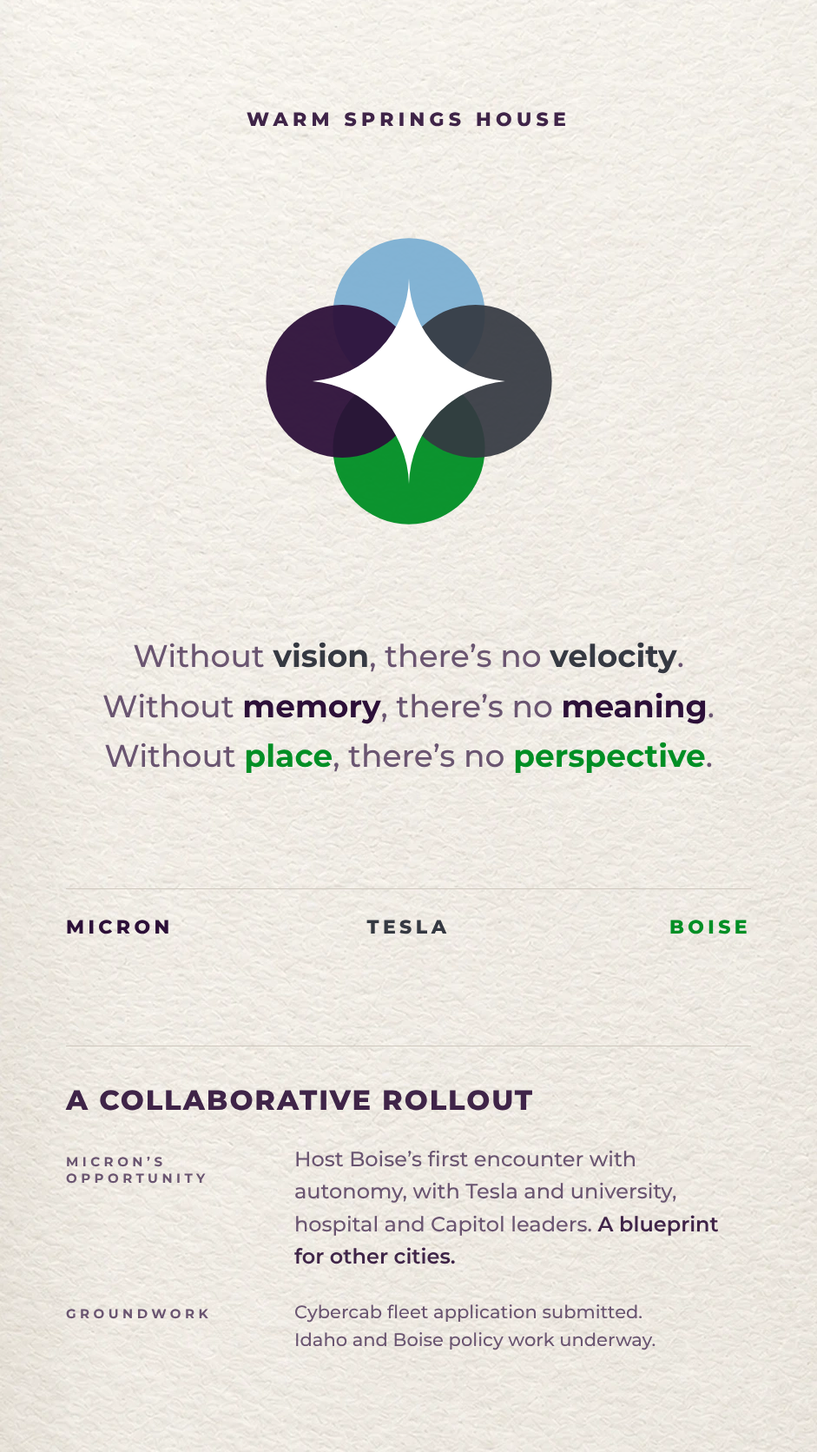
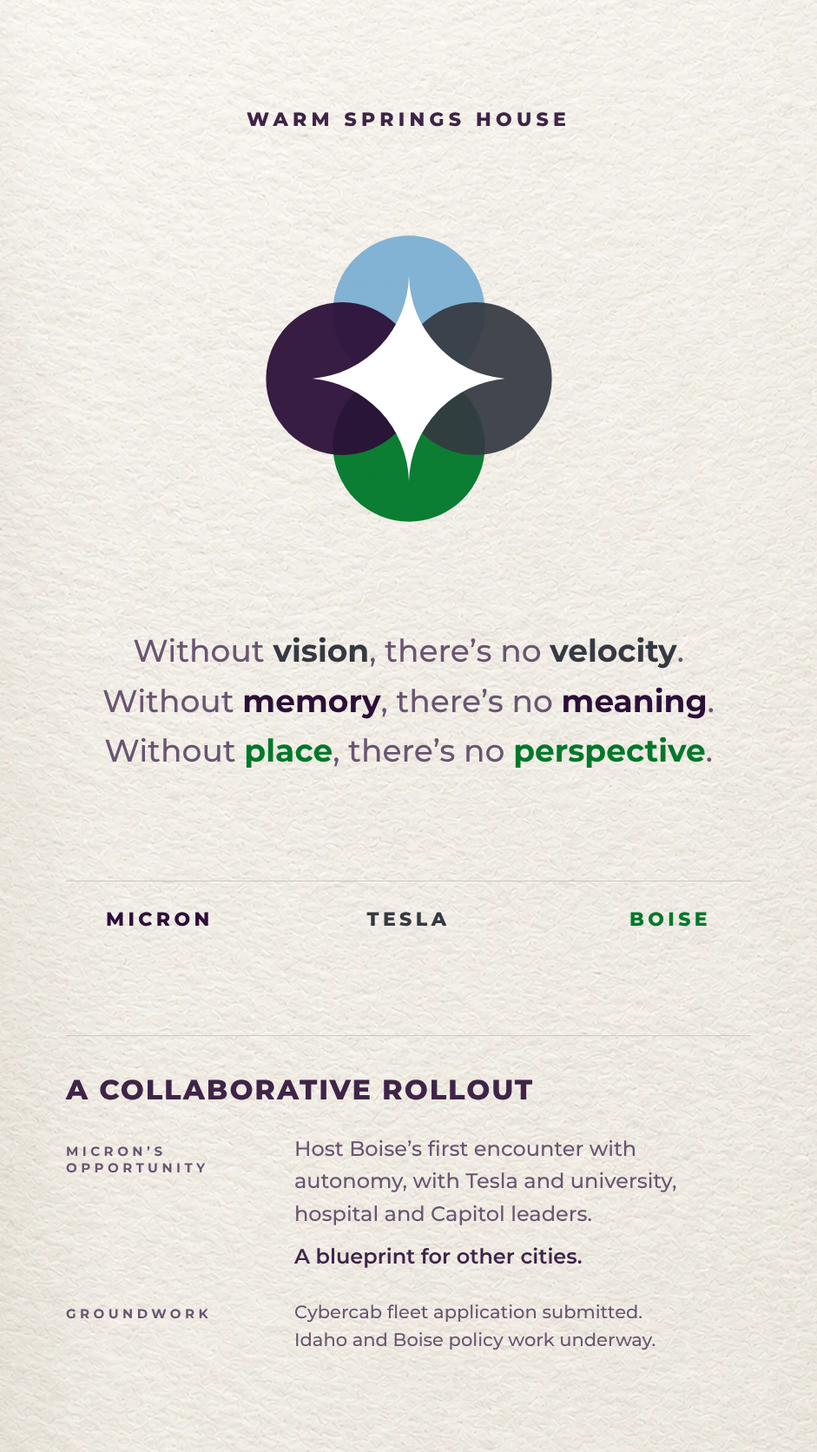
Card 5 final: serif hero lines, centred close, partner row inset
Claude-Session: https://claude.ai/code/session_018mjyHLtRipED1pdLKidqkG

diff --git a/mockups/card5/clean/card5-FINAL.html b/mockups/card5/clean/card5-FINAL.html
@@ -1,12 +1,12 @@
 <!doctype html><html><head><meta charset="utf-8">
-<link href="https://fonts.googleapis.com/css2?family=Montserrat:wght@400;500;600;700;800&display=swap" rel="stylesheet">
+<link href="https://fonts.googleapis.com/css2?family=Montserrat:wght@300;400;500;600;700;800&family=Newsreader:ital,opsz,wght@0,6..72,300;0,6..72,400;0,6..72,500;1,6..72,400;1,6..72,500&display=swap" rel="stylesheet">
 <style>html,body{margin:0;background:#fff}
 .card{position:relative;width:941px;height:1672px;overflow:hidden;background:#f4f3ef url(paper.webp) center/cover no-repeat;font-family:Montserrat,Arial,sans-serif;color:#3f2448}
 .col{position:absolute;left:76px;right:76px;top:124px;bottom:112px;display:flex;flex-direction:column;justify-content:space-between}
 .c{text-align:center}
 .brand{font-size:22px;letter-spacing:.24em;font-weight:800;text-transform:uppercase}
-.st{font-size:36px;line-height:1.6;font-weight:500;color:#6a5571}
-.st b{font-weight:700}
+.st{font-family:Newsreader,Georgia,serif;font-size:46px;line-height:1.42;font-weight:400;color:#6a5571}
+.st b{font-style:italic;font-weight:500}
 .pt{font-size:22px;letter-spacing:.2em;font-weight:800;text-transform:uppercase}
 .lab{font-size:15px;letter-spacing:.3em;font-weight:700;text-transform:uppercase;color:#6a5571}
 .h{font-size:32px;line-height:1.15;letter-spacing:.06em;font-weight:800;text-transform:uppercase}
@@ -16,9 +16,9 @@
 .rule{border-top:1px solid #cfc8be}
 </style></head><body><div class="card"><div class="col"><div class="c brand">Warm Springs House</div>
 <div style="display:flex;justify-content:center"><img src="mark.svg" style="width:330px;height:330px;display:block"></div>
-<div class="c st">Without <b style="color:#353942">vision</b>, there&#8217;s no <b style="color:#353942">velocity</b>.<br>Without <b style="color:#2c0f38">memory</b>, there&#8217;s no <b style="color:#2c0f38">meaning</b>.<br>Without <b style="color:#008f25">place</b>, there&#8217;s no <b style="color:#008f25">perspective</b>.</div>
-<div class="rule" style="padding-top:30px;display:grid;grid-template-columns:1fr 1fr 1fr">
-<div class="pt" style="color:#2c0f38">Micron</div><div class="pt c" style="color:#353942">Tesla</div><div class="pt" style="color:#008f25;text-align:right">Boise</div></div><div class="rule c" style="padding-top:44px">
+<div class="c st">Without <b style="color:#353942">vision</b>, there&#8217;s no <b style="color:#353942">velocity</b>.<br>Without <b style="color:#2c0f38">memory</b>, there&#8217;s no <b style="color:#2c0f38">meaning</b>.<br>Without <b style="color:#00782a">place</b>, there&#8217;s no <b style="color:#00782a">perspective</b>.</div>
+<div class="rule" style="padding:30px 46px 0;display:grid;grid-template-columns:1fr 1fr 1fr">
+<div class="pt" style="color:#2c0f38">Micron</div><div class="pt c" style="color:#353942">Tesla</div><div class="pt" style="color:#00782a;text-align:right">Boise</div></div><div class="rule c" style="padding-top:44px">
 <div class="h">A collaborative rollout</div>
 <div class="p" style="margin-top:18px"><b>Micron&#8217;s opportunity:</b> host Boise&#8217;s first encounter<br>with autonomy, with Tesla and university,<br>hospital and Capitol leaders.</div>
 <div class="p" style="margin-top:10px;color:#3f2448;font-weight:600">A blueprint for other cities.</div>

diff --git a/mockups/card5/clean/card5-C-H2.html b/mockups/card5/clean/card5-C-H2.html
@@ -1,0 +1,25 @@
+<!doctype html><html><head><meta charset="utf-8">
+<link href="https://fonts.googleapis.com/css2?family=Montserrat:wght@300;400;500;600;700;800&family=Newsreader:ital,opsz,wght@0,6..72,300;0,6..72,400;0,6..72,500;1,6..72,400;1,6..72,500&display=swap" rel="stylesheet">
+<style>html,body{margin:0;background:#fff}
+.card{position:relative;width:941px;height:1672px;overflow:hidden;background:#f4f3ef url(paper.webp) center/cover no-repeat;font-family:Montserrat,Arial,sans-serif;color:#3f2448}
+.col{position:absolute;left:76px;right:76px;top:124px;bottom:112px;display:flex;flex-direction:column;justify-content:space-between}
+.c{text-align:center}
+.brand{font-size:22px;letter-spacing:.24em;font-weight:800;text-transform:uppercase}
+.st{font-family:Newsreader,Georgia,serif;font-size:46px;line-height:1.42;font-weight:400;color:#6a5571}
+.st b{font-style:italic;font-weight:500}
+.pt{font-size:22px;letter-spacing:.2em;font-weight:800;text-transform:uppercase}
+.lab{font-size:15px;letter-spacing:.3em;font-weight:700;text-transform:uppercase;color:#6a5571}
+.h{font-size:32px;line-height:1.15;letter-spacing:.06em;font-weight:800;text-transform:uppercase}
+.p{font-size:25px;line-height:1.55;font-weight:500;color:#6a5571}
+.p b{font-weight:700;color:#3f2448}
+.sm{font-size:21px;line-height:1.55;font-weight:500;color:#6a5571}
+.rule{border-top:1px solid #cfc8be}
+</style></head><body><div class="card"><div class="col"><div class="c brand">Warm Springs House</div>
+<div style="display:flex;justify-content:center"><img src="mark.svg" style="width:330px;height:330px;display:block"></div>
+<div class="c st">Without <b style="color:#353942">vision</b>, there&#8217;s no <b style="color:#353942">velocity</b>.<br>Without <b style="color:#2c0f38">memory</b>, there&#8217;s no <b style="color:#2c0f38">meaning</b>.<br>Without <b style="color:#00782a">place</b>, there&#8217;s no <b style="color:#00782a">perspective</b>.</div>
+<div class="rule" style="padding:30px 46px 0;display:grid;grid-template-columns:1fr 1fr 1fr">
+<div class="pt" style="color:#2c0f38">Micron</div><div class="pt c" style="color:#353942">Tesla</div><div class="pt" style="color:#00782a;text-align:right">Boise</div></div><div class="rule" style="padding-top:44px">
+<div class="h">A collaborative rollout</div>
+<div style="margin-top:30px;display:grid;grid-template-columns:1fr 2fr;row-gap:30px;align-items:baseline">
+<div class="lab">Micron&#8217;s<br>opportunity</div><div class="p" style="font-size:24px">Host Boise&#8217;s first encounter with autonomy, with Tesla and university, hospital and Capitol leaders.<div style="margin-top:12px;color:#3f2448;font-weight:600">A blueprint for other cities.</div></div>
+<div class="lab">Groundwork</div><div class="sm">Cybercab fleet application submitted.<br>Idaho and Boise policy work underway.</div></div></div></div></div></body></html>

diff --git a/mockups/card5/clean/card5-FINAL-alt-C.html b/mockups/card5/clean/card5-FINAL-alt-C.html
@@ -1,0 +1,25 @@
+<!doctype html><html><head><meta charset="utf-8">
+<link href="https://fonts.googleapis.com/css2?family=Montserrat:wght@300;400;500;600;700;800&family=Newsreader:ital,opsz,wght@0,6..72,300;0,6..72,400;0,6..72,500;1,6..72,400;1,6..72,500&display=swap" rel="stylesheet">
+<style>html,body{margin:0;background:#fff}
+.card{position:relative;width:941px;height:1672px;overflow:hidden;background:#f4f3ef url(paper.webp) center/cover no-repeat;font-family:Montserrat,Arial,sans-serif;color:#3f2448}
+.col{position:absolute;left:76px;right:76px;top:124px;bottom:112px;display:flex;flex-direction:column;justify-content:space-between}
+.c{text-align:center}
+.brand{font-size:22px;letter-spacing:.24em;font-weight:800;text-transform:uppercase}
+.st{font-family:Newsreader,Georgia,serif;font-size:46px;line-height:1.42;font-weight:400;color:#6a5571}
+.st b{font-style:italic;font-weight:500}
+.pt{font-size:22px;letter-spacing:.2em;font-weight:800;text-transform:uppercase}
+.lab{font-size:15px;letter-spacing:.3em;font-weight:700;text-transform:uppercase;color:#6a5571}
+.h{font-size:32px;line-height:1.15;letter-spacing:.06em;font-weight:800;text-transform:uppercase}
+.p{font-size:25px;line-height:1.55;font-weight:500;color:#6a5571}
+.p b{font-weight:700;color:#3f2448}
+.sm{font-size:21px;line-height:1.55;font-weight:500;color:#6a5571}
+.rule{border-top:1px solid #cfc8be}
+</style></head><body><div class="card"><div class="col"><div class="c brand">Warm Springs House</div>
+<div style="display:flex;justify-content:center"><img src="mark.svg" style="width:330px;height:330px;display:block"></div>
+<div class="c st">Without <b style="color:#353942">vision</b>, there&#8217;s no <b style="color:#353942">velocity</b>.<br>Without <b style="color:#2c0f38">memory</b>, there&#8217;s no <b style="color:#2c0f38">meaning</b>.<br>Without <b style="color:#00782a">place</b>, there&#8217;s no <b style="color:#00782a">perspective</b>.</div>
+<div class="rule" style="padding:30px 46px 0;display:grid;grid-template-columns:1fr 1fr 1fr">
+<div class="pt" style="color:#2c0f38">Micron</div><div class="pt c" style="color:#353942">Tesla</div><div class="pt" style="color:#00782a;text-align:right">Boise</div></div><div class="rule" style="padding-top:44px">
+<div class="h">A collaborative rollout</div>
+<div style="margin-top:30px;display:grid;grid-template-columns:1fr 2fr;row-gap:30px;align-items:baseline">
+<div class="lab">Micron&#8217;s<br>opportunity</div><div class="p" style="font-size:24px">Host Boise&#8217;s first encounter with autonomy, with Tesla and university, hospital and Capitol leaders.<div style="margin-top:12px;color:#3f2448;font-weight:600">A blueprint for other cities.</div></div>
+<div class="lab">Groundwork</div><div class="sm">Cybercab fleet application submitted.<br>Idaho and Boise policy work underway.</div></div></div></div></div></body></html>

diff --git a/mockups/card5/clean/card5-C-H3.html b/mockups/card5/clean/card5-C-H3.html
@@ -1,0 +1,25 @@
+<!doctype html><html><head><meta charset="utf-8">
+<link href="https://fonts.googleapis.com/css2?family=Montserrat:wght@300;400;500;600;700;800&family=Newsreader:ital,opsz,wght@0,6..72,300;0,6..72,400;0,6..72,500;1,6..72,400;1,6..72,500&display=swap" rel="stylesheet">
+<style>html,body{margin:0;background:#fff}
+.card{position:relative;width:941px;height:1672px;overflow:hidden;background:#f4f3ef url(paper.webp) center/cover no-repeat;font-family:Montserrat,Arial,sans-serif;color:#3f2448}
+.col{position:absolute;left:76px;right:76px;top:124px;bottom:112px;display:flex;flex-direction:column;justify-content:space-between}
+.c{text-align:center}
+.brand{font-size:22px;letter-spacing:.24em;font-weight:800;text-transform:uppercase}
+.st{font-size:29px;line-height:1.85;font-weight:600;letter-spacing:.05em;text-transform:uppercase;color:#8c8391}
+.st b{font-weight:800}
+.pt{font-size:22px;letter-spacing:.2em;font-weight:800;text-transform:uppercase}
+.lab{font-size:15px;letter-spacing:.3em;font-weight:700;text-transform:uppercase;color:#6a5571}
+.h{font-size:32px;line-height:1.15;letter-spacing:.06em;font-weight:800;text-transform:uppercase}
+.p{font-size:25px;line-height:1.55;font-weight:500;color:#6a5571}
+.p b{font-weight:700;color:#3f2448}
+.sm{font-size:21px;line-height:1.55;font-weight:500;color:#6a5571}
+.rule{border-top:1px solid #cfc8be}
+</style></head><body><div class="card"><div class="col"><div class="c brand">Warm Springs House</div>
+<div style="display:flex;justify-content:center"><img src="mark.svg" style="width:330px;height:330px;display:block"></div>
+<div class="c st">Without <b style="color:#353942">vision</b>, there&#8217;s no <b style="color:#353942">velocity</b>.<br>Without <b style="color:#2c0f38">memory</b>, there&#8217;s no <b style="color:#2c0f38">meaning</b>.<br>Without <b style="color:#00782a">place</b>, there&#8217;s no <b style="color:#00782a">perspective</b>.</div>
+<div class="rule" style="padding:30px 46px 0;display:grid;grid-template-columns:1fr 1fr 1fr">
+<div class="pt" style="color:#2c0f38">Micron</div><div class="pt c" style="color:#353942">Tesla</div><div class="pt" style="color:#00782a;text-align:right">Boise</div></div><div class="rule" style="padding-top:44px">
+<div class="h">A collaborative rollout</div>
+<div style="margin-top:30px;display:grid;grid-template-columns:1fr 2fr;row-gap:30px;align-items:baseline">
+<div class="lab">Micron&#8217;s<br>opportunity</div><div class="p" style="font-size:24px">Host Boise&#8217;s first encounter with autonomy, with Tesla and university, hospital and Capitol leaders.<div style="margin-top:12px;color:#3f2448;font-weight:600">A blueprint for other cities.</div></div>
+<div class="lab">Groundwork</div><div class="sm">Cybercab fleet application submitted.<br>Idaho and Boise policy work underway.</div></div></div></div></div></body></html>

diff --git a/mockups/card5/clean/card5-C-H4.html b/mockups/card5/clean/card5-C-H4.html
@@ -1,0 +1,25 @@
+<!doctype html><html><head><meta charset="utf-8">
+<link href="https://fonts.googleapis.com/css2?family=Montserrat:wght@300;400;500;600;700;800&family=Newsreader:ital,opsz,wght@0,6..72,300;0,6..72,400;0,6..72,500;1,6..72,400;1,6..72,500&display=swap" rel="stylesheet">
+<style>html,body{margin:0;background:#fff}
+.card{position:relative;width:941px;height:1672px;overflow:hidden;background:#f4f3ef url(paper.webp) center/cover no-repeat;font-family:Montserrat,Arial,sans-serif;color:#3f2448}
+.col{position:absolute;left:76px;right:76px;top:124px;bottom:112px;display:flex;flex-direction:column;justify-content:space-between}
+.c{text-align:center}
+.brand{font-size:22px;letter-spacing:.24em;font-weight:800;text-transform:uppercase}
+.st{font-family:Newsreader,Georgia,serif;font-size:44px;line-height:1.42;font-weight:300;color:#6f6475}
+.st b{font-weight:500}
+.pt{font-size:22px;letter-spacing:.2em;font-weight:800;text-transform:uppercase}
+.lab{font-size:15px;letter-spacing:.3em;font-weight:700;text-transform:uppercase;color:#6a5571}
+.h{font-size:32px;line-height:1.15;letter-spacing:.06em;font-weight:800;text-transform:uppercase}
+.p{font-size:25px;line-height:1.55;font-weight:500;color:#6a5571}
+.p b{font-weight:700;color:#3f2448}
+.sm{font-size:21px;line-height:1.55;font-weight:500;color:#6a5571}
+.rule{border-top:1px solid #cfc8be}
+</style></head><body><div class="card"><div class="col"><div class="c brand">Warm Springs House</div>
+<div style="display:flex;justify-content:center"><img src="mark.svg" style="width:330px;height:330px;display:block"></div>
+<div class="c st">Without <b style="color:#353942">vision</b>, there&#8217;s no <b style="color:#353942">velocity</b>.<br>Without <b style="color:#2c0f38">memory</b>, there&#8217;s no <b style="color:#2c0f38">meaning</b>.<br>Without <b style="color:#00782a">place</b>, there&#8217;s no <b style="color:#00782a">perspective</b>.</div>
+<div class="rule" style="padding:30px 46px 0;display:grid;grid-template-columns:1fr 1fr 1fr">
+<div class="pt" style="color:#2c0f38">Micron</div><div class="pt c" style="color:#353942">Tesla</div><div class="pt" style="color:#00782a;text-align:right">Boise</div></div><div class="rule" style="padding-top:44px">
+<div class="h">A collaborative rollout</div>
+<div style="margin-top:30px;display:grid;grid-template-columns:1fr 2fr;row-gap:30px;align-items:baseline">
+<div class="lab">Micron&#8217;s<br>opportunity</div><div class="p" style="font-size:24px">Host Boise&#8217;s first encounter with autonomy, with Tesla and university, hospital and Capitol leaders.<div style="margin-top:12px;color:#3f2448;font-weight:600">A blueprint for other cities.</div></div>
+<div class="lab">Groundwork</div><div class="sm">Cybercab fleet application submitted.<br>Idaho and Boise policy work underway.</div></div></div></div></div></body></html>

diff --git a/mockups/card5/clean/card5-C-H1.html b/mockups/card5/clean/card5-C-H1.html
@@ -1,0 +1,25 @@
+<!doctype html><html><head><meta charset="utf-8">
+<link href="https://fonts.googleapis.com/css2?family=Montserrat:wght@300;400;500;600;700;800&family=Newsreader:ital,opsz,wght@0,6..72,300;0,6..72,400;0,6..72,500;1,6..72,400;1,6..72,500&display=swap" rel="stylesheet">
+<style>html,body{margin:0;background:#fff}
+.card{position:relative;width:941px;height:1672px;overflow:hidden;background:#f4f3ef url(paper.webp) center/cover no-repeat;font-family:Montserrat,Arial,sans-serif;color:#3f2448}
+.col{position:absolute;left:76px;right:76px;top:124px;bottom:112px;display:flex;flex-direction:column;justify-content:space-between}
+.c{text-align:center}
+.brand{font-size:22px;letter-spacing:.24em;font-weight:800;text-transform:uppercase}
+.st{font-size:36px;line-height:1.62;font-weight:500;letter-spacing:-.005em;color:#8c8391}
+.st b{font-weight:500}
+.pt{font-size:22px;letter-spacing:.2em;font-weight:800;text-transform:uppercase}
+.lab{font-size:15px;letter-spacing:.3em;font-weight:700;text-transform:uppercase;color:#6a5571}
+.h{font-size:32px;line-height:1.15;letter-spacing:.06em;font-weight:800;text-transform:uppercase}
+.p{font-size:25px;line-height:1.55;font-weight:500;color:#6a5571}
+.p b{font-weight:700;color:#3f2448}
+.sm{font-size:21px;line-height:1.55;font-weight:500;color:#6a5571}
+.rule{border-top:1px solid #cfc8be}
+</style></head><body><div class="card"><div class="col"><div class="c brand">Warm Springs House</div>
+<div style="display:flex;justify-content:center"><img src="mark.svg" style="width:330px;height:330px;display:block"></div>
+<div class="c st">Without <b style="color:#353942">vision</b>, there&#8217;s no <b style="color:#353942">velocity</b>.<br>Without <b style="color:#2c0f38">memory</b>, there&#8217;s no <b style="color:#2c0f38">meaning</b>.<br>Without <b style="color:#00782a">place</b>, there&#8217;s no <b style="color:#00782a">perspective</b>.</div>
+<div class="rule" style="padding:30px 46px 0;display:grid;grid-template-columns:1fr 1fr 1fr">
+<div class="pt" style="color:#2c0f38">Micron</div><div class="pt c" style="color:#353942">Tesla</div><div class="pt" style="color:#00782a;text-align:right">Boise</div></div><div class="rule" style="padding-top:44px">
+<div class="h">A collaborative rollout</div>
+<div style="margin-top:30px;display:grid;grid-template-columns:1fr 2fr;row-gap:30px;align-items:baseline">
+<div class="lab">Micron&#8217;s<br>opportunity</div><div class="p" style="font-size:24px">Host Boise&#8217;s first encounter with autonomy, with Tesla and university, hospital and Capitol leaders.<div style="margin-top:12px;color:#3f2448;font-weight:600">A blueprint for other cities.</div></div>
+<div class="lab">Groundwork</div><div class="sm">Cybercab fleet application submitted.<br>Idaho and Boise policy work underway.</div></div></div></div></div></body></html>

diff --git a/mockups/card5/clean/card5-clean-C.html b/mockups/card5/clean/card5-clean-C.html
@@ -17,9 +17,9 @@
 </style></head><body><div class="card"><div class="col"><div class="c brand">Warm Springs House</div>
 <div style="display:flex;justify-content:center"><img src="mark.svg" style="width:330px;height:330px;display:block"></div>
 <div class="c st">Without <b style="color:#353942">vision</b>, there&#8217;s no <b style="color:#353942">velocity</b>.<br>Without <b style="color:#2c0f38">memory</b>, there&#8217;s no <b style="color:#2c0f38">meaning</b>.<br>Without <b style="color:#00782a">place</b>, there&#8217;s no <b style="color:#00782a">perspective</b>.</div>
-<div class="rule" style="padding-top:30px;display:grid;grid-template-columns:1fr 1fr 1fr">
+<div class="rule" style="padding:30px 46px 0;display:grid;grid-template-columns:1fr 1fr 1fr">
 <div class="pt" style="color:#2c0f38">Micron</div><div class="pt c" style="color:#353942">Tesla</div><div class="pt" style="color:#00782a;text-align:right">Boise</div></div><div class="rule" style="padding-top:44px">
 <div class="h">A collaborative rollout</div>
 <div style="margin-top:30px;display:grid;grid-template-columns:1fr 2fr;row-gap:30px;align-items:baseline">
-<div class="lab">Micron&#8217;s<br>opportunity</div><div class="p" style="font-size:24px">Host Boise&#8217;s first encounter with autonomy, with Tesla and university, hospital and Capitol leaders. <span style="color:#3f2448;font-weight:600">A blueprint for other cities.</span></div>
+<div class="lab">Micron&#8217;s<br>opportunity</div><div class="p" style="font-size:24px">Host Boise&#8217;s first encounter with autonomy, with Tesla and university, hospital and Capitol leaders.<div style="margin-top:12px;color:#3f2448;font-weight:600">A blueprint for other cities.</div></div>
 <div class="lab">Groundwork</div><div class="sm">Cybercab fleet application submitted.<br>Idaho and Boise policy work underway.</div></div></div></div></div></body></html>

diff --git a/mockups/card5/clean/card5-H1.html b/mockups/card5/clean/card5-H1.html
@@ -17,7 +17,7 @@
 </style></head><body><div class="card"><div class="col"><div class="c brand">Warm Springs House</div>
 <div style="display:flex;justify-content:center"><img src="mark.svg" style="width:330px;height:330px;display:block"></div>
 <div class="c st">Without <b style="color:#353942">vision</b>, there&#8217;s no <b style="color:#353942">velocity</b>.<br>Without <b style="color:#2c0f38">memory</b>, there&#8217;s no <b style="color:#2c0f38">meaning</b>.<br>Without <b style="color:#00782a">place</b>, there&#8217;s no <b style="color:#00782a">perspective</b>.</div>
-<div class="rule" style="padding-top:30px;display:grid;grid-template-columns:1fr 1fr 1fr">
+<div class="rule" style="padding:30px 46px 0;display:grid;grid-template-columns:1fr 1fr 1fr">
 <div class="pt" style="color:#2c0f38">Micron</div><div class="pt c" style="color:#353942">Tesla</div><div class="pt" style="color:#00782a;text-align:right">Boise</div></div><div class="rule c" style="padding-top:44px">
 <div class="h">A collaborative rollout</div>
 <div class="p" style="margin-top:18px"><b>Micron&#8217;s opportunity:</b> host Boise&#8217;s first encounter<br>with autonomy, with Tesla and university,<br>hospital and Capitol leaders.</div>

diff --git a/mockups/card5/clean/card5-H2.html b/mockups/card5/clean/card5-H2.html
@@ -17,7 +17,7 @@
 </style></head><body><div class="card"><div class="col"><div class="c brand">Warm Springs House</div>
 <div style="display:flex;justify-content:center"><img src="mark.svg" style="width:330px;height:330px;display:block"></div>
 <div class="c st">Without <b style="color:#353942">vision</b>, there&#8217;s no <b style="color:#353942">velocity</b>.<br>Without <b style="color:#2c0f38">memory</b>, there&#8217;s no <b style="color:#2c0f38">meaning</b>.<br>Without <b style="color:#00782a">place</b>, there&#8217;s no <b style="color:#00782a">perspective</b>.</div>
-<div class="rule" style="padding-top:30px;display:grid;grid-template-columns:1fr 1fr 1fr">
+<div class="rule" style="padding:30px 46px 0;display:grid;grid-template-columns:1fr 1fr 1fr">
 <div class="pt" style="color:#2c0f38">Micron</div><div class="pt c" style="color:#353942">Tesla</div><div class="pt" style="color:#00782a;text-align:right">Boise</div></div><div class="rule c" style="padding-top:44px">
 <div class="h">A collaborative rollout</div>
 <div class="p" style="margin-top:18px"><b>Micron&#8217;s opportunity:</b> host Boise&#8217;s first encounter<br>with autonomy, with Tesla and university,<br>hospital and Capitol leaders.</div>

diff --git a/mockups/card5/clean/card5-H3.html b/mockups/card5/clean/card5-H3.html
@@ -17,7 +17,7 @@
 </style></head><body><div class="card"><div class="col"><div class="c brand">Warm Springs House</div>
 <div style="display:flex;justify-content:center"><img src="mark.svg" style="width:330px;height:330px;display:block"></div>
 <div class="c st">Without <b style="color:#353942">vision</b>, there&#8217;s no <b style="color:#353942">velocity</b>.<br>Without <b style="color:#2c0f38">memory</b>, there&#8217;s no <b style="color:#2c0f38">meaning</b>.<br>Without <b style="color:#00782a">place</b>, there&#8217;s no <b style="color:#00782a">perspective</b>.</div>
-<div class="rule" style="padding-top:30px;display:grid;grid-template-columns:1fr 1fr 1fr">
+<div class="rule" style="padding:30px 46px 0;display:grid;grid-template-columns:1fr 1fr 1fr">
 <div class="pt" style="color:#2c0f38">Micron</div><div class="pt c" style="color:#353942">Tesla</div><div class="pt" style="color:#00782a;text-align:right">Boise</div></div><div class="rule c" style="padding-top:44px">
 <div class="h">A collaborative rollout</div>
 <div class="p" style="margin-top:18px"><b>Micron&#8217;s opportunity:</b> host Boise&#8217;s first encounter<br>with autonomy, with Tesla and university,<br>hospital and Capitol leaders.</div>

diff --git a/mockups/card5/clean/card5-H4.html b/mockups/card5/clean/card5-H4.html
@@ -17,7 +17,7 @@
 </style></head><body><div class="card"><div class="col"><div class="c brand">Warm Springs House</div>
 <div style="display:flex;justify-content:center"><img src="mark.svg" style="width:330px;height:330px;display:block"></div>
 <div class="c st">Without <b style="color:#353942">vision</b>, there&#8217;s no <b style="color:#353942">velocity</b>.<br>Without <b style="color:#2c0f38">memory</b>, there&#8217;s no <b style="color:#2c0f38">meaning</b>.<br>Without <b style="color:#00782a">place</b>, there&#8217;s no <b style="color:#00782a">perspective</b>.</div>
-<div class="rule" style="padding-top:30px;display:grid;grid-template-columns:1fr 1fr 1fr">
+<div class="rule" style="padding:30px 46px 0;display:grid;grid-template-columns:1fr 1fr 1fr">
 <div class="pt" style="color:#2c0f38">Micron</div><div class="pt c" style="color:#353942">Tesla</div><div class="pt" style="color:#00782a;text-align:right">Boise</div></div><div class="rule c" style="padding-top:44px">
 <div class="h">A collaborative rollout</div>
 <div class="p" style="margin-top:18px"><b>Micron&#8217;s opportunity:</b> host Boise&#8217;s first encounter<br>with autonomy, with Tesla and university,<br>hospital and Capitol leaders.</div>

diff --git a/mockups/card5/clean/card5-clean-B.html b/mockups/card5/clean/card5-clean-B.html
@@ -17,7 +17,7 @@
 </style></head><body><div class="card"><div class="col"><div class="c brand">Warm Springs House</div>
 <div style="display:flex;justify-content:center"><img src="mark.svg" style="width:330px;height:330px;display:block"></div>
 <div class="c st">Without <b style="color:#353942">vision</b>, there&#8217;s no <b style="color:#353942">velocity</b>.<br>Without <b style="color:#2c0f38">memory</b>, there&#8217;s no <b style="color:#2c0f38">meaning</b>.<br>Without <b style="color:#00782a">place</b>, there&#8217;s no <b style="color:#00782a">perspective</b>.</div>
-<div class="rule" style="padding-top:30px;display:grid;grid-template-columns:1fr 1fr 1fr">
+<div class="rule" style="padding:30px 46px 0;display:grid;grid-template-columns:1fr 1fr 1fr">
 <div class="pt" style="color:#2c0f38">Micron</div><div class="pt c" style="color:#353942">Tesla</div><div class="pt" style="color:#00782a;text-align:right">Boise</div></div><div class="rule c" style="padding-top:44px">
 <div class="h">A collaborative rollout</div>
 <div class="p" style="margin-top:18px"><b>Micron&#8217;s opportunity:</b> host Boise&#8217;s first encounter<br>with autonomy, with Tesla and university,<br>hospital and Capitol leaders.</div>
